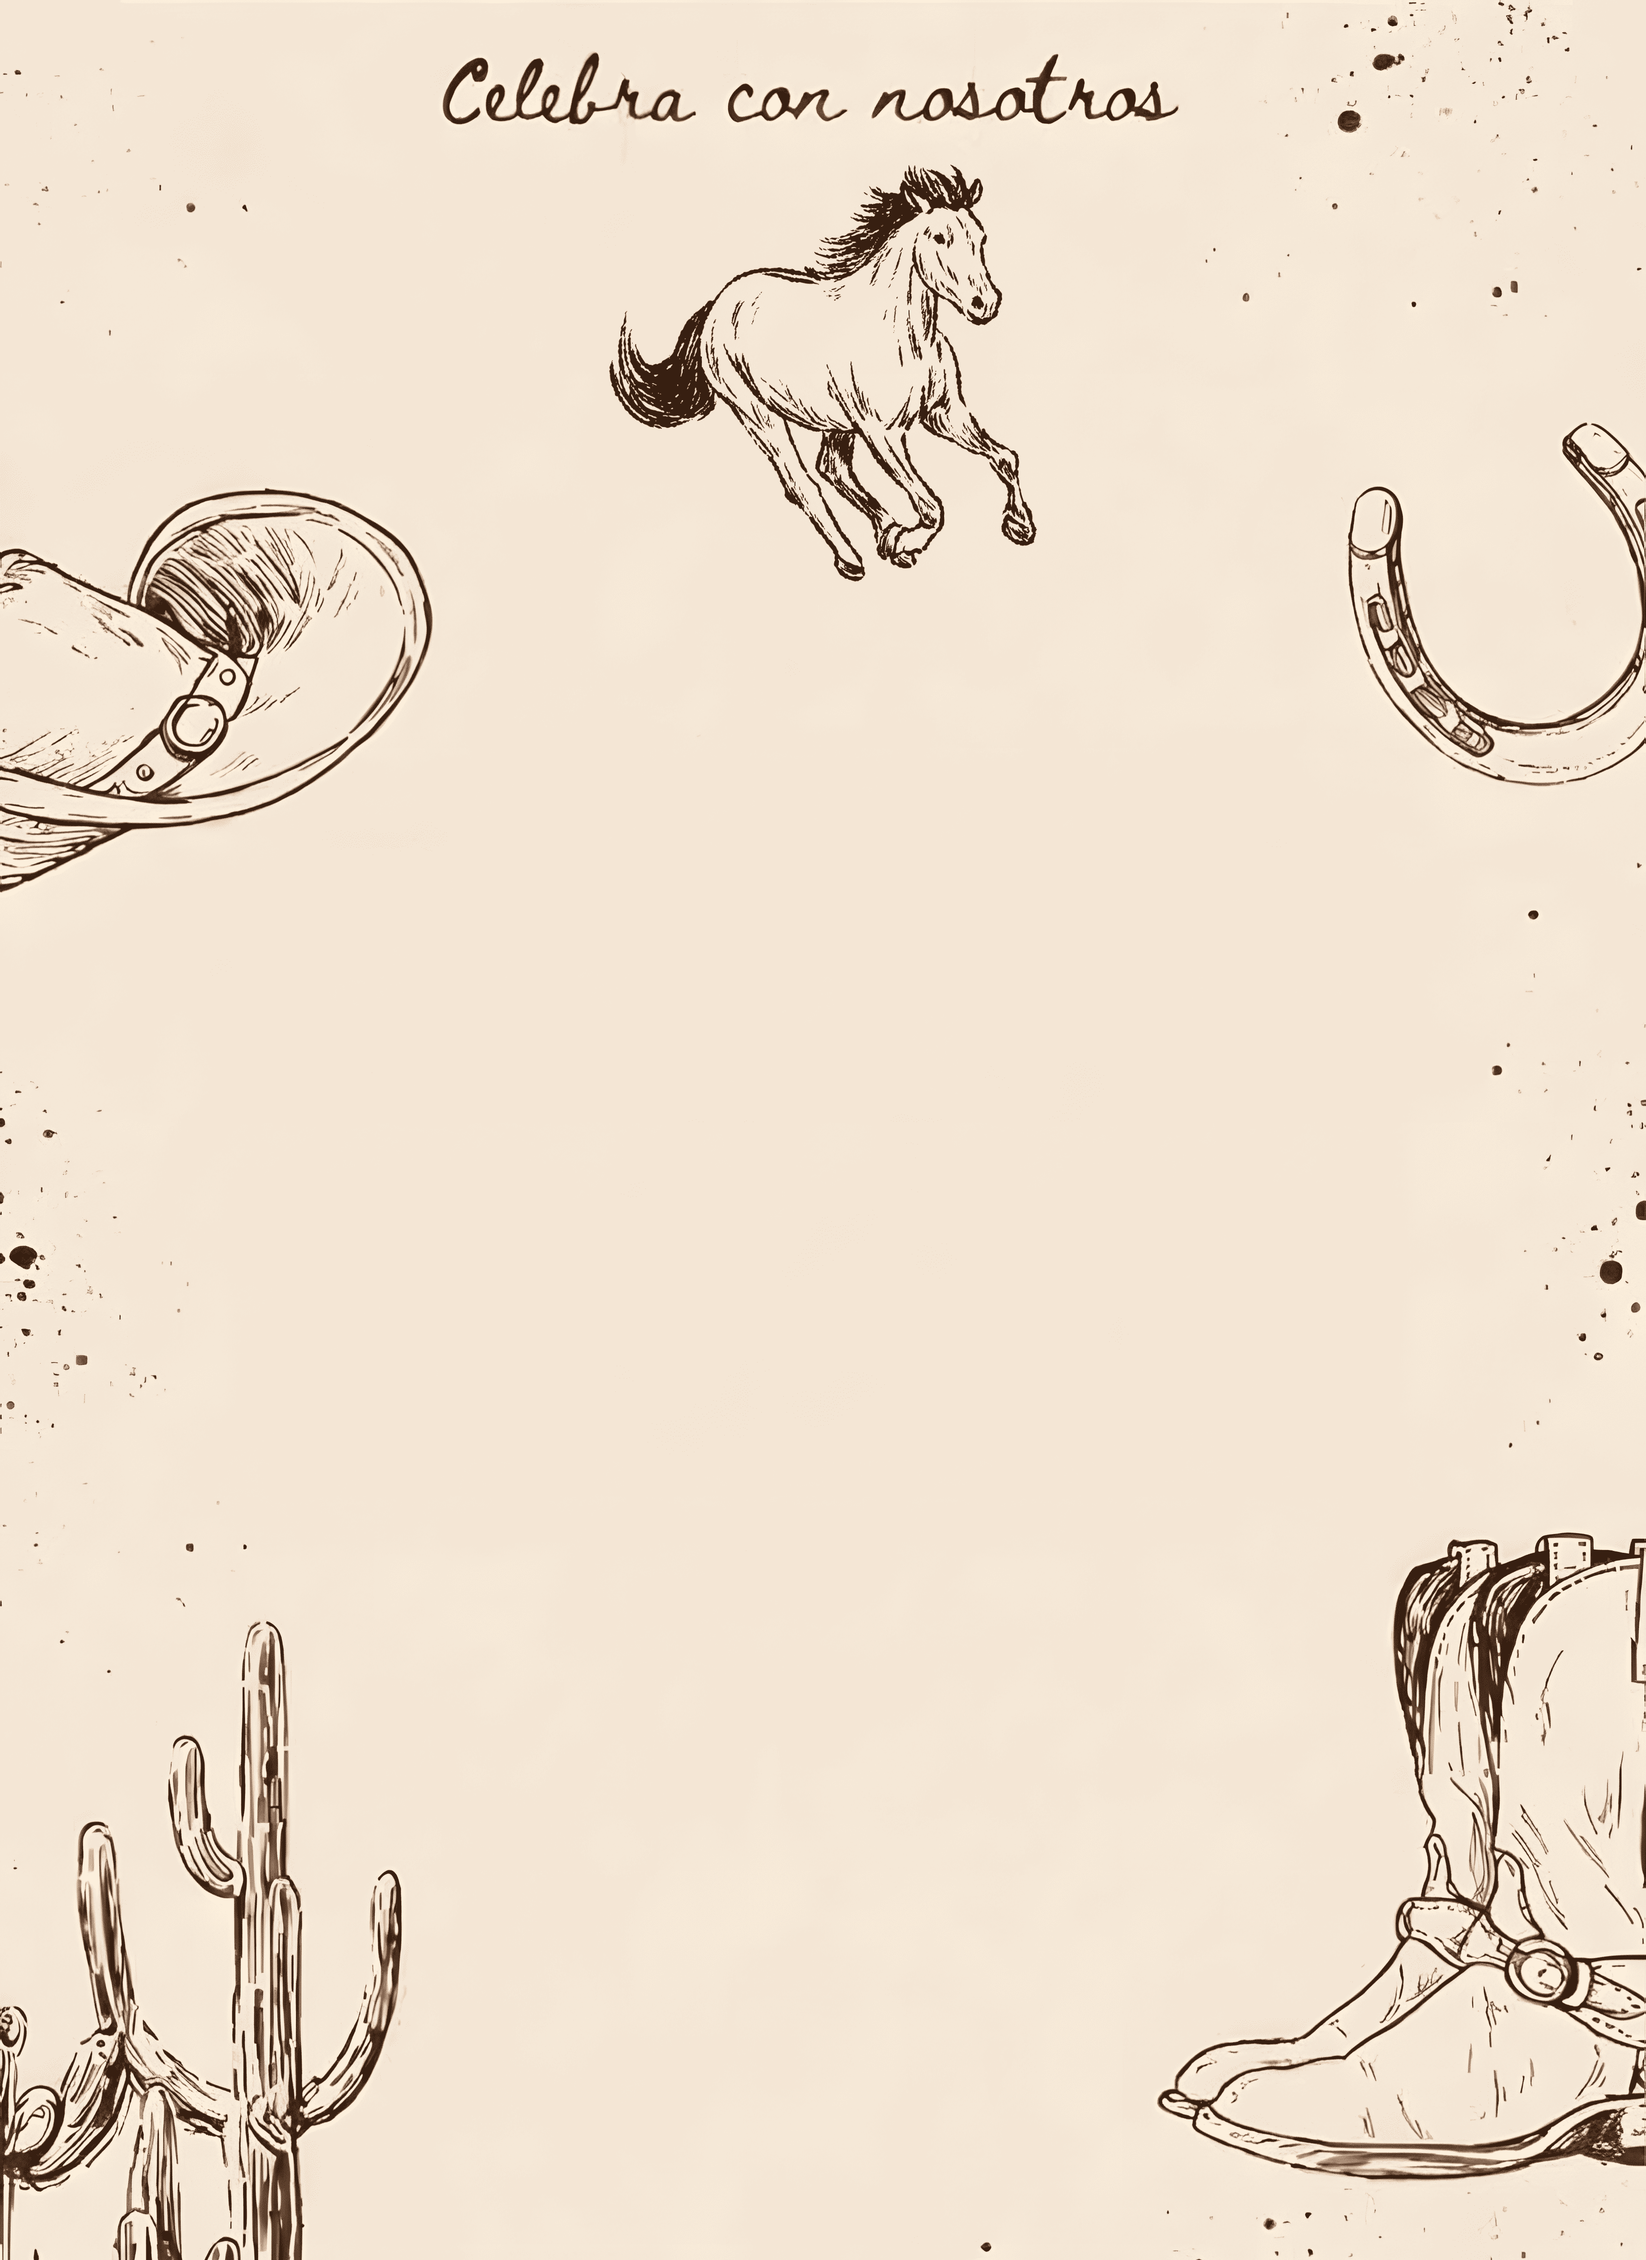
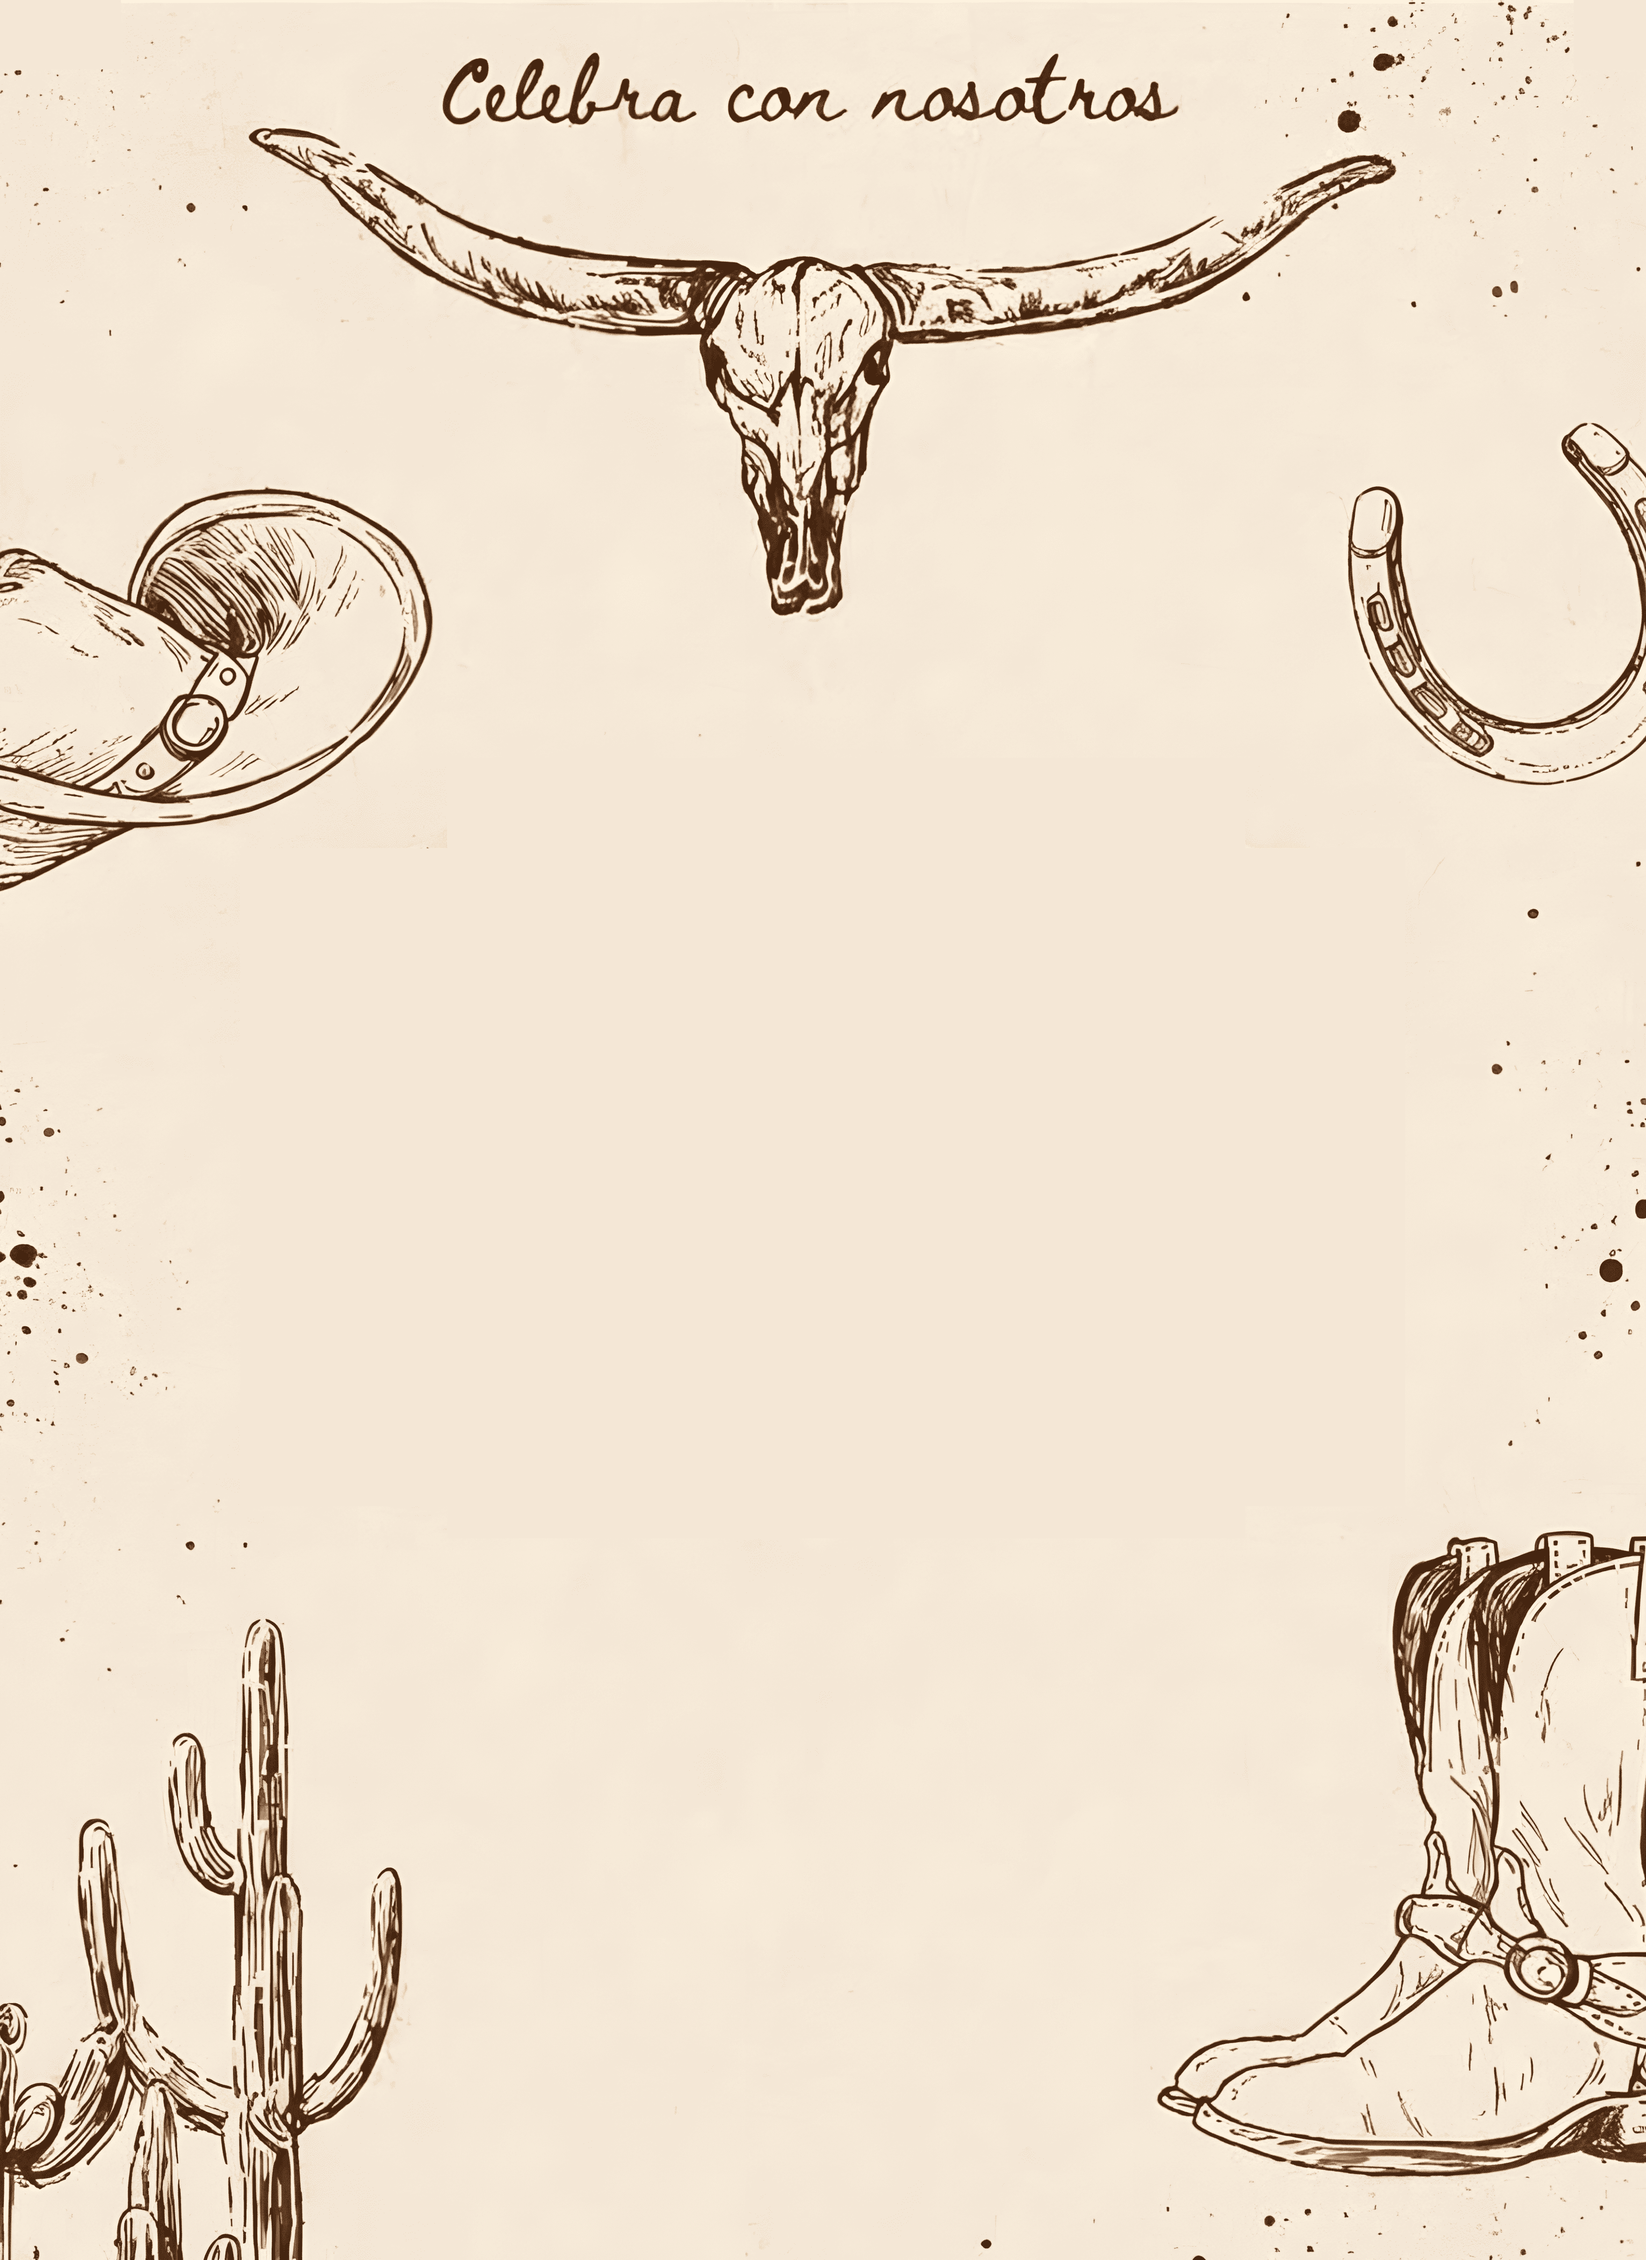
Add files via upload

diff --git a/inicio.html b/inicio.html
@@ -264,10 +264,8 @@ $(document).ready(function(){
 
                 
                          <div class="row justify-content-center nom1" style="margin:0 auto;"> 
-                            <h5 class='dondeyCuando  col-lg-12 text-center' style="margin-top:250px; font-size: 25px; font-family: 'Rye', serif;
-  font-weight: 400;
-  font-style: normal;" >MIS 50 AÑOS</h5>
-    <img class="heart col-10 col-md-6 col-lg-3 mt-4" id="" src="img/titulo.png" >
+                    
+    <img class="heart col-10 col-md-6 col-lg-3" id="" src="img/titulo.png" >
 </div>
                         
                         <!-- <div class="row justify-content-center col-12" style="margin: 0 auto" >

diff --git a/css/demo001.css b/css/demo001.css
@@ -2291,7 +2291,7 @@ z-index: 99px;
 /* heart div class - in html i used just a simple html simbol entity for heart sign, you can use text or whatever u want*/
 
 .heart {
-    
+    margin-top: 300px;
   font-size: 150px;
   color: #e00;
   animation: beat .65s infinite alternate;
